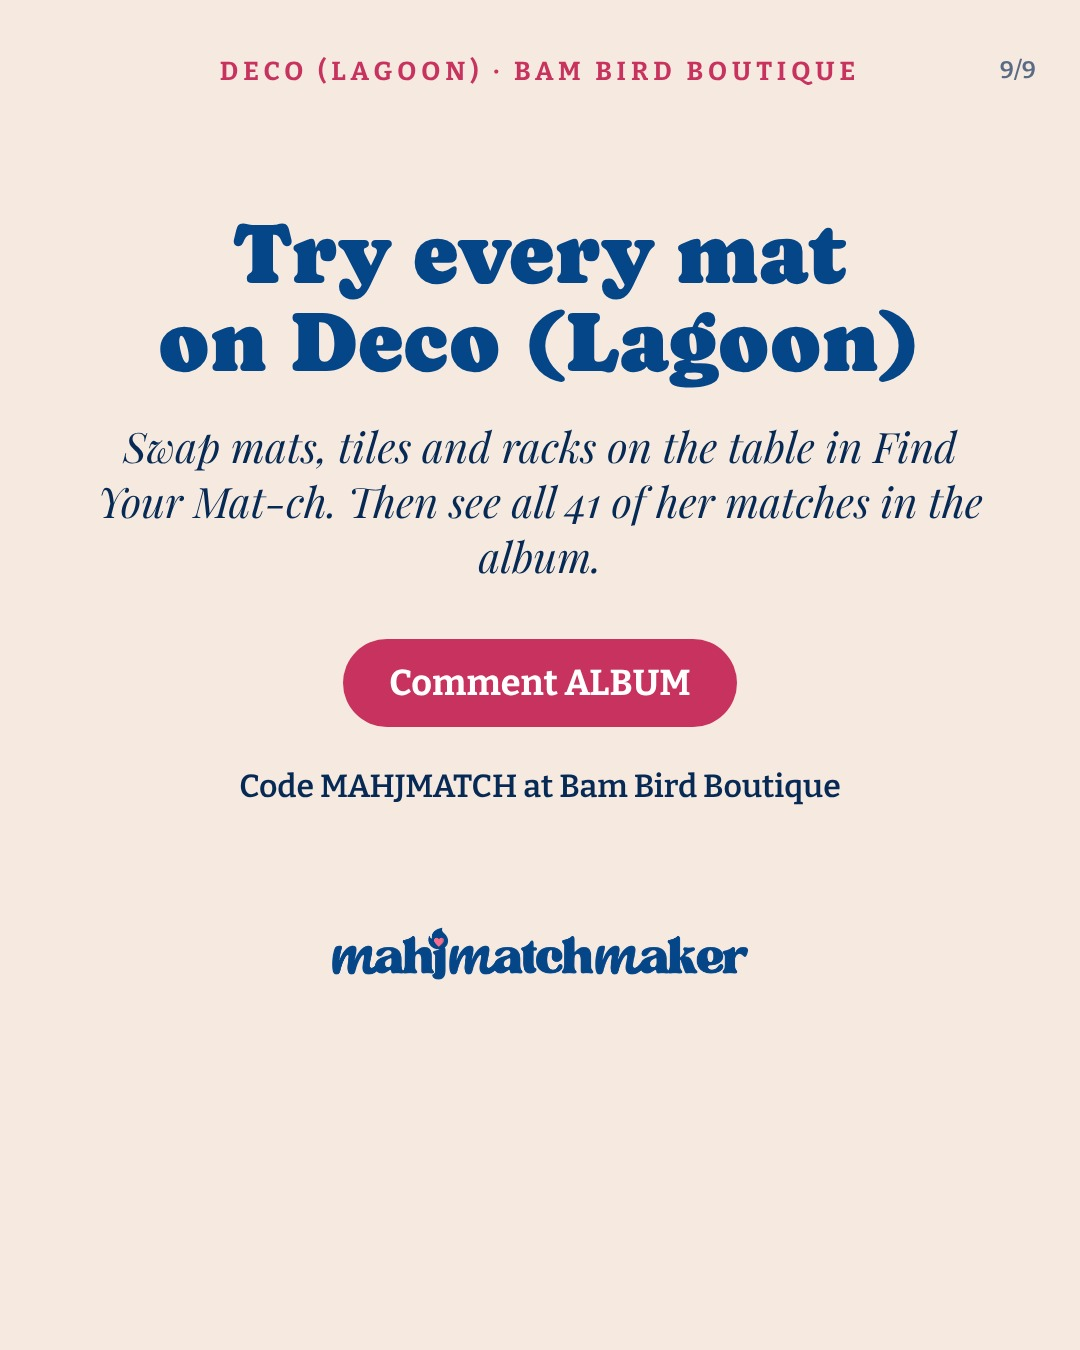
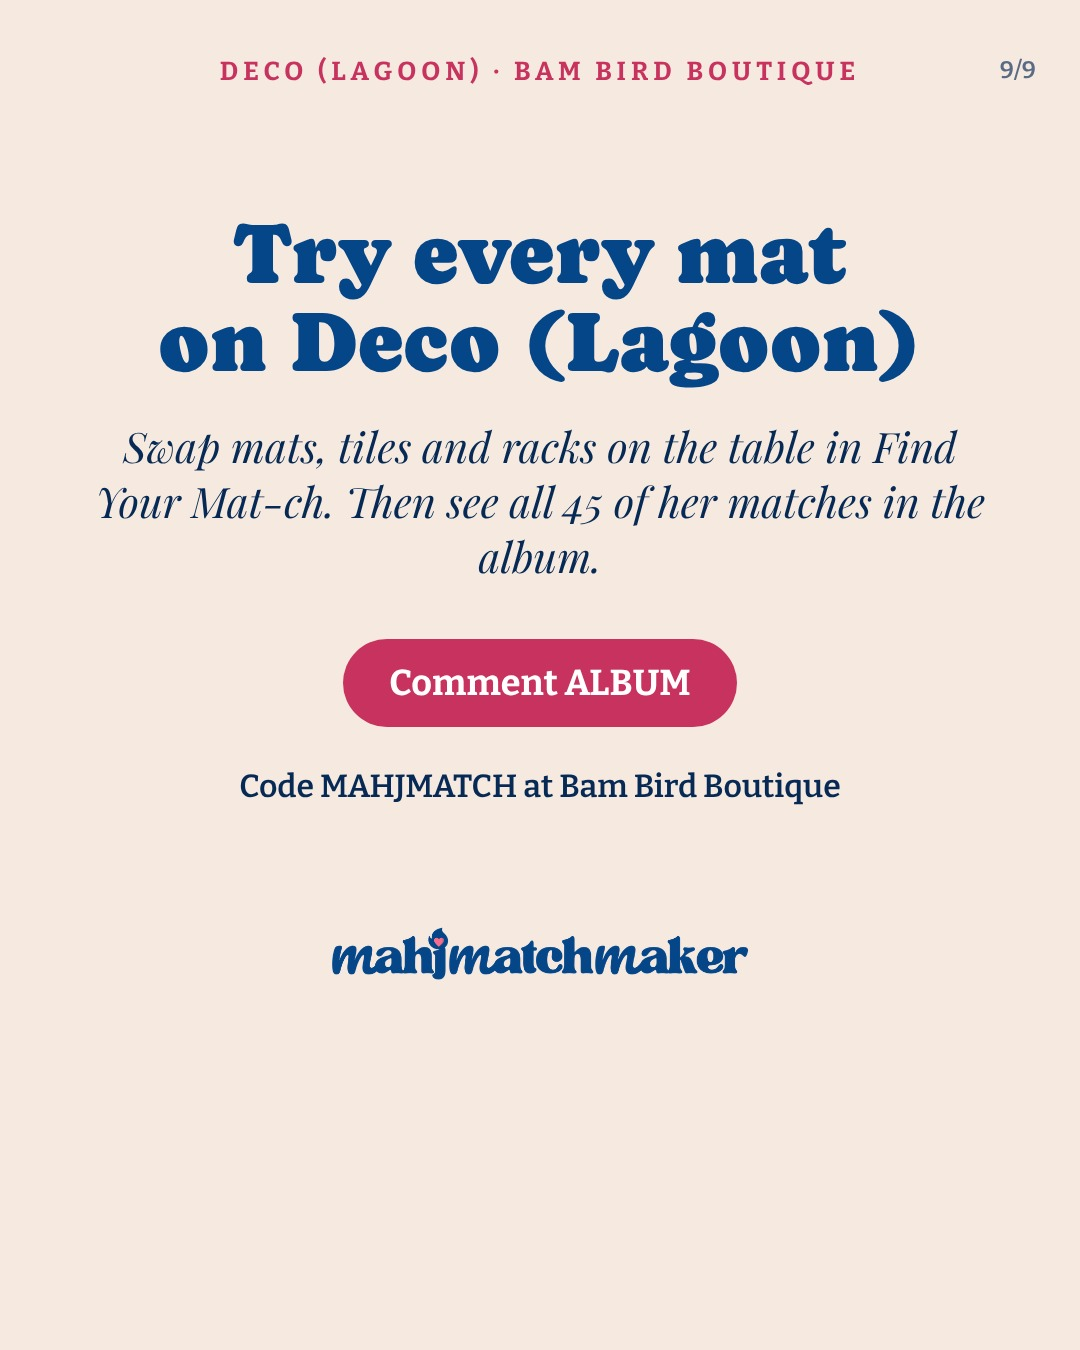
Fix Deco Lagoon grid + FYM carousel mat count (41 -> 45, matches live caption)
Claude-Session: https://claude.ai/code/session_01UWZfuwFYQL37EbBDGV2NZF

diff --git a/assets/social/deco-lagoon-launch/fym-carousel/s9.html b/assets/social/deco-lagoon-launch/fym-carousel/s9.html
@@ -5,4 +5,4 @@ body{margin:0}.c{width:1080px;height:1350px;background:#f6e9df;position:relative
 h1{position:absolute;top:94px;width:100%;margin:0;text-align:center;font:62px/1.04 Cap;color:#054689}h1 i{font:italic 400 66px PF}
 .t{position:absolute;left:100px;top:262px;width:880px;height:880px;border-radius:22px;overflow:hidden;box-shadow:0 14px 34px rgba(6,42,85,.22)}.t img{width:100%;height:100%;display:block}
 .cap{position:absolute;top:1178px;width:100%;text-align:center;font:italic 38px PF;color:#062a55}.cap b{font:700 30px Bit;color:#c8325f;font-style:normal;letter-spacing:1px}
-.n{position:absolute;right:44px;top:56px;font:600 24px Bit;color:#5a6b85}</style></head><body><div class="c"><div class="k">DECO (LAGOON) · BAM BIRD BOUTIQUE</div><div class="n">9/9</div><div style="position:absolute;top:210px;width:100%;text-align:center"><div style="font:86px/1.02 Cap;color:#054689">Try every mat<br>on Deco (Lagoon)</div><div style="font:italic 42px/1.3 PF;color:#062a55;margin:34px 90px 0">Swap mats, tiles and racks on the table in Find <i>Your</i> Mat-ch. Then see all 41 of her matches in the album.</div><div style="display:inline-block;margin-top:56px;background:#c8325f;color:#fff;font:700 36px Bit;padding:22px 46px;border-radius:60px">Comment ALBUM</div><div style="font:600 32px Bit;color:#062a55;margin-top:40px">Code MAHJMATCH at Bam Bird Boutique</div><img src="file:///home/claude/mahjmatchmaker-data/assets/brand/mahjmatchmaker-wordmark-notag.png" style="width:420px;margin-top:120px"></div></div></body></html>
+.n{position:absolute;right:44px;top:56px;font:600 24px Bit;color:#5a6b85}</style></head><body><div class="c"><div class="k">DECO (LAGOON) · BAM BIRD BOUTIQUE</div><div class="n">9/9</div><div style="position:absolute;top:210px;width:100%;text-align:center"><div style="font:86px/1.02 Cap;color:#054689">Try every mat<br>on Deco (Lagoon)</div><div style="font:italic 42px/1.3 PF;color:#062a55;margin:34px 90px 0">Swap mats, tiles and racks on the table in Find <i>Your</i> Mat-ch. Then see all 45 of her matches in the album.</div><div style="display:inline-block;margin-top:56px;background:#c8325f;color:#fff;font:700 36px Bit;padding:22px 46px;border-radius:60px">Comment ALBUM</div><div style="font:600 32px Bit;color:#062a55;margin-top:40px">Code MAHJMATCH at Bam Bird Boutique</div><img src="file:///home/claude/mahjmatchmaker-data/assets/brand/mahjmatchmaker-wordmark-notag.png" style="width:420px;margin-top:120px"></div></div></body></html>

diff --git a/assets/social/deco-lagoon-launch/grid/deco-lagoon/p.html b/assets/social/deco-lagoon-launch/grid/deco-lagoon/p.html
@@ -11,4 +11,4 @@ h1{font:104px/1.02 Cap;color:#054689;margin:0 0 10px;text-align:center}
 .code{font:600 25px Bit;color:#062a55;margin-top:14px}.wm{height:44px;margin-top:16px}</style></head><body><div class="c">
 <h1>Deco (Lagoon)</h1><div class="k">BY BAM BIRD BOUTIQUE</div><div class="s">My top 8 mat matches</div>
 <div class="g" style="grid-template-columns:repeat(3,288px)"><div class="" style="width:288px;height:288px"><img src="m0.jpg"></div><div class="" style="width:288px;height:288px"><img src="m1.jpg"></div><div class="" style="width:288px;height:288px"><img src="m2.jpg"></div><div class="" style="width:288px;height:288px"><img src="m3.jpg"></div><div class="t" style="width:288px;height:288px"><img src="tiles.jpg"></div><div class="" style="width:288px;height:288px"><img src="m4.jpg"></div><div class="" style="width:288px;height:288px"><img src="m5.jpg"></div><div class="" style="width:288px;height:288px"><img src="m6.jpg"></div><div class="" style="width:288px;height:288px"><img src="m7.jpg"></div></div>
-<div class="f"><div class="p">See all 41 in the album · link in bio</div><div class="code">Code MAHJMATCH at Bam Bird Boutique</div><img class="wm" src="/home/claude/mahjmatchmaker-data/assets/brand/mahjmatchmaker-wordmark-notag.png"></div></div></body></html>
+<div class="f"><div class="p">See all 45 in the album · link in bio</div><div class="code">Code MAHJMATCH at Bam Bird Boutique</div><img class="wm" src="/home/claude/mahjmatchmaker-data/assets/brand/mahjmatchmaker-wordmark-notag.png"></div></div></body></html>
